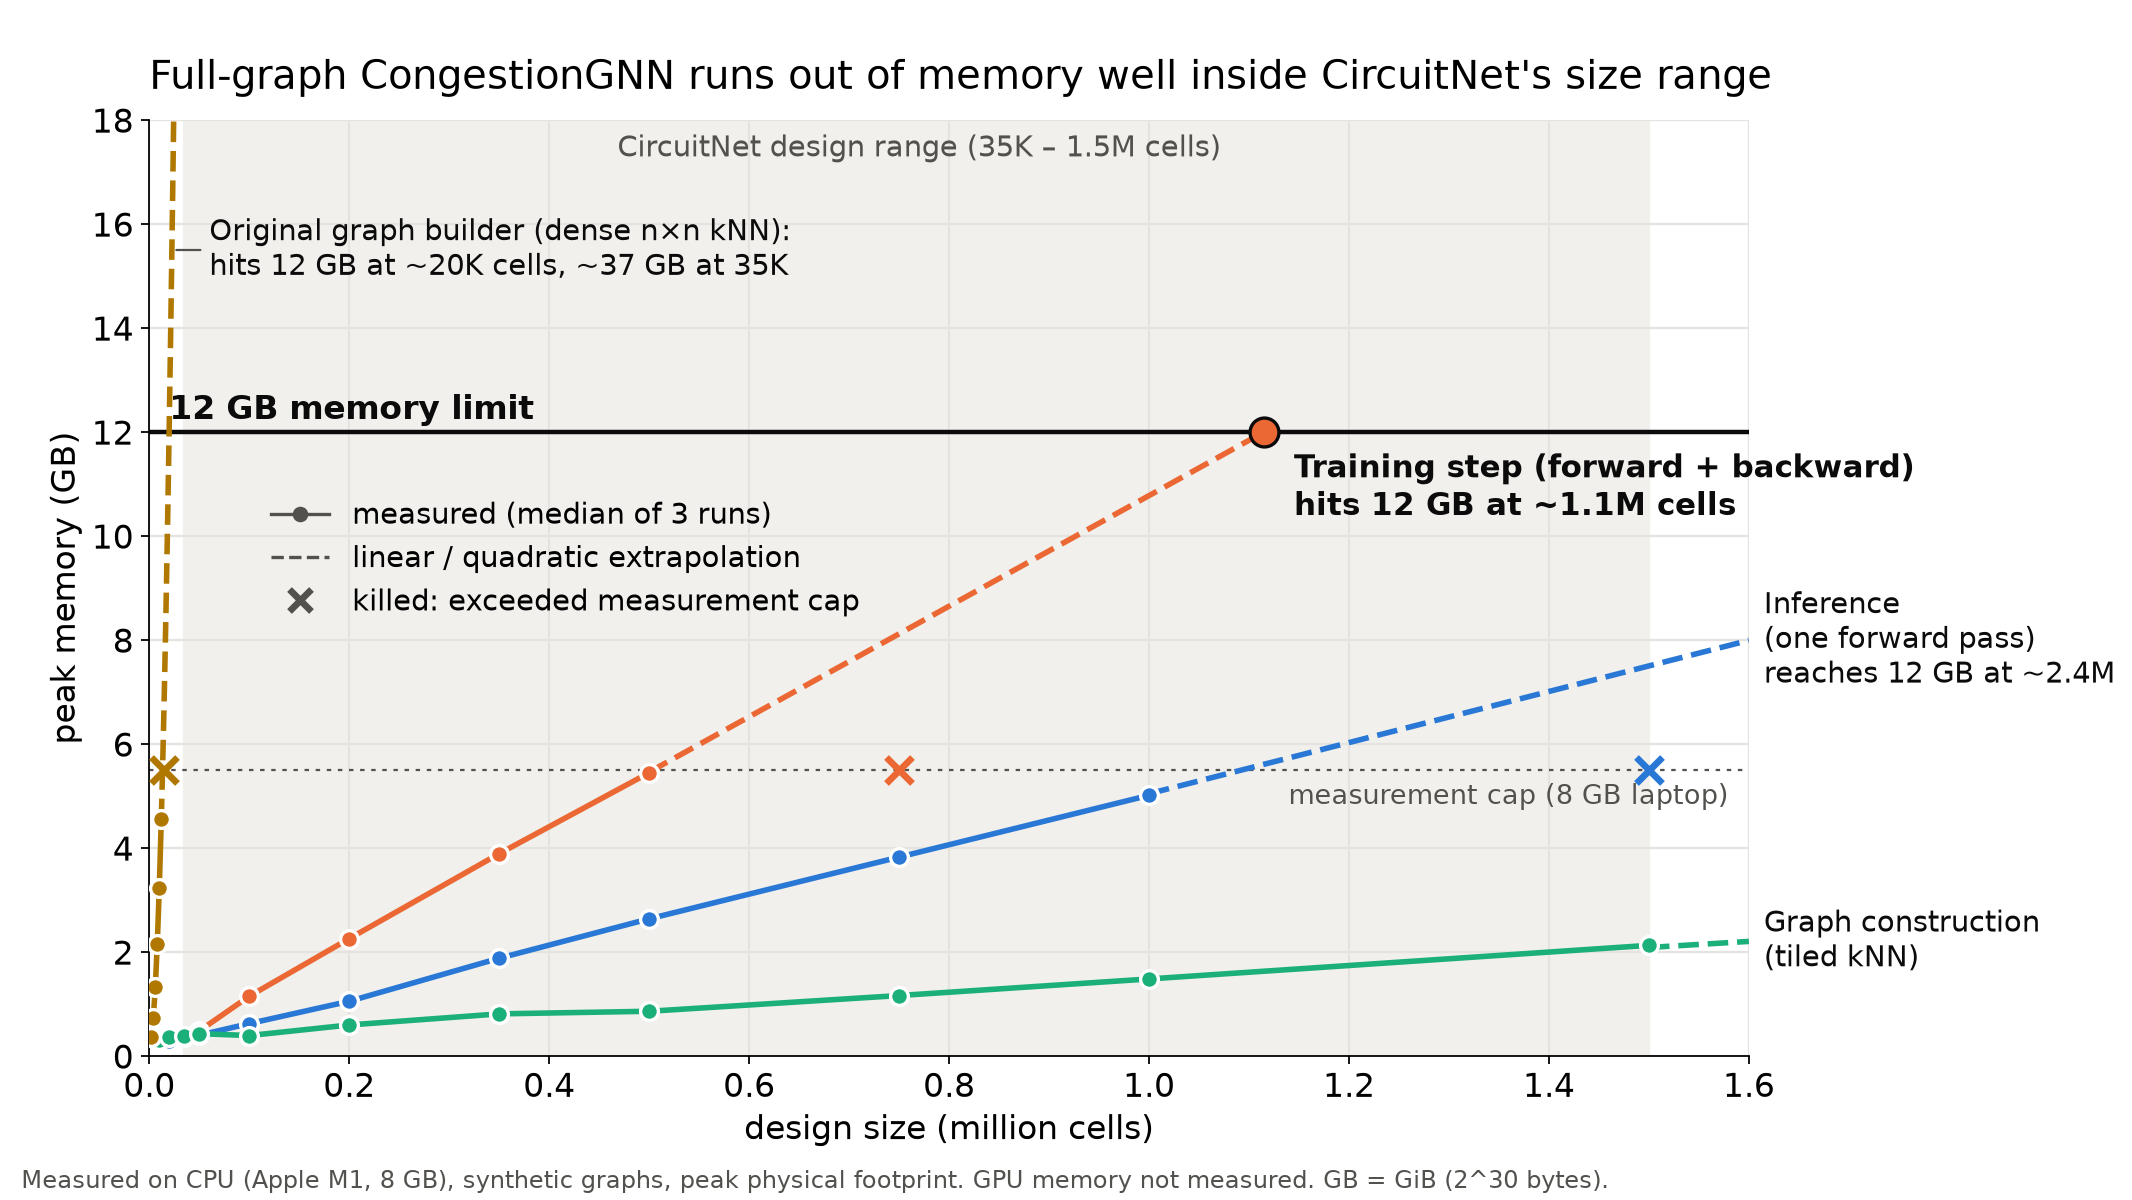
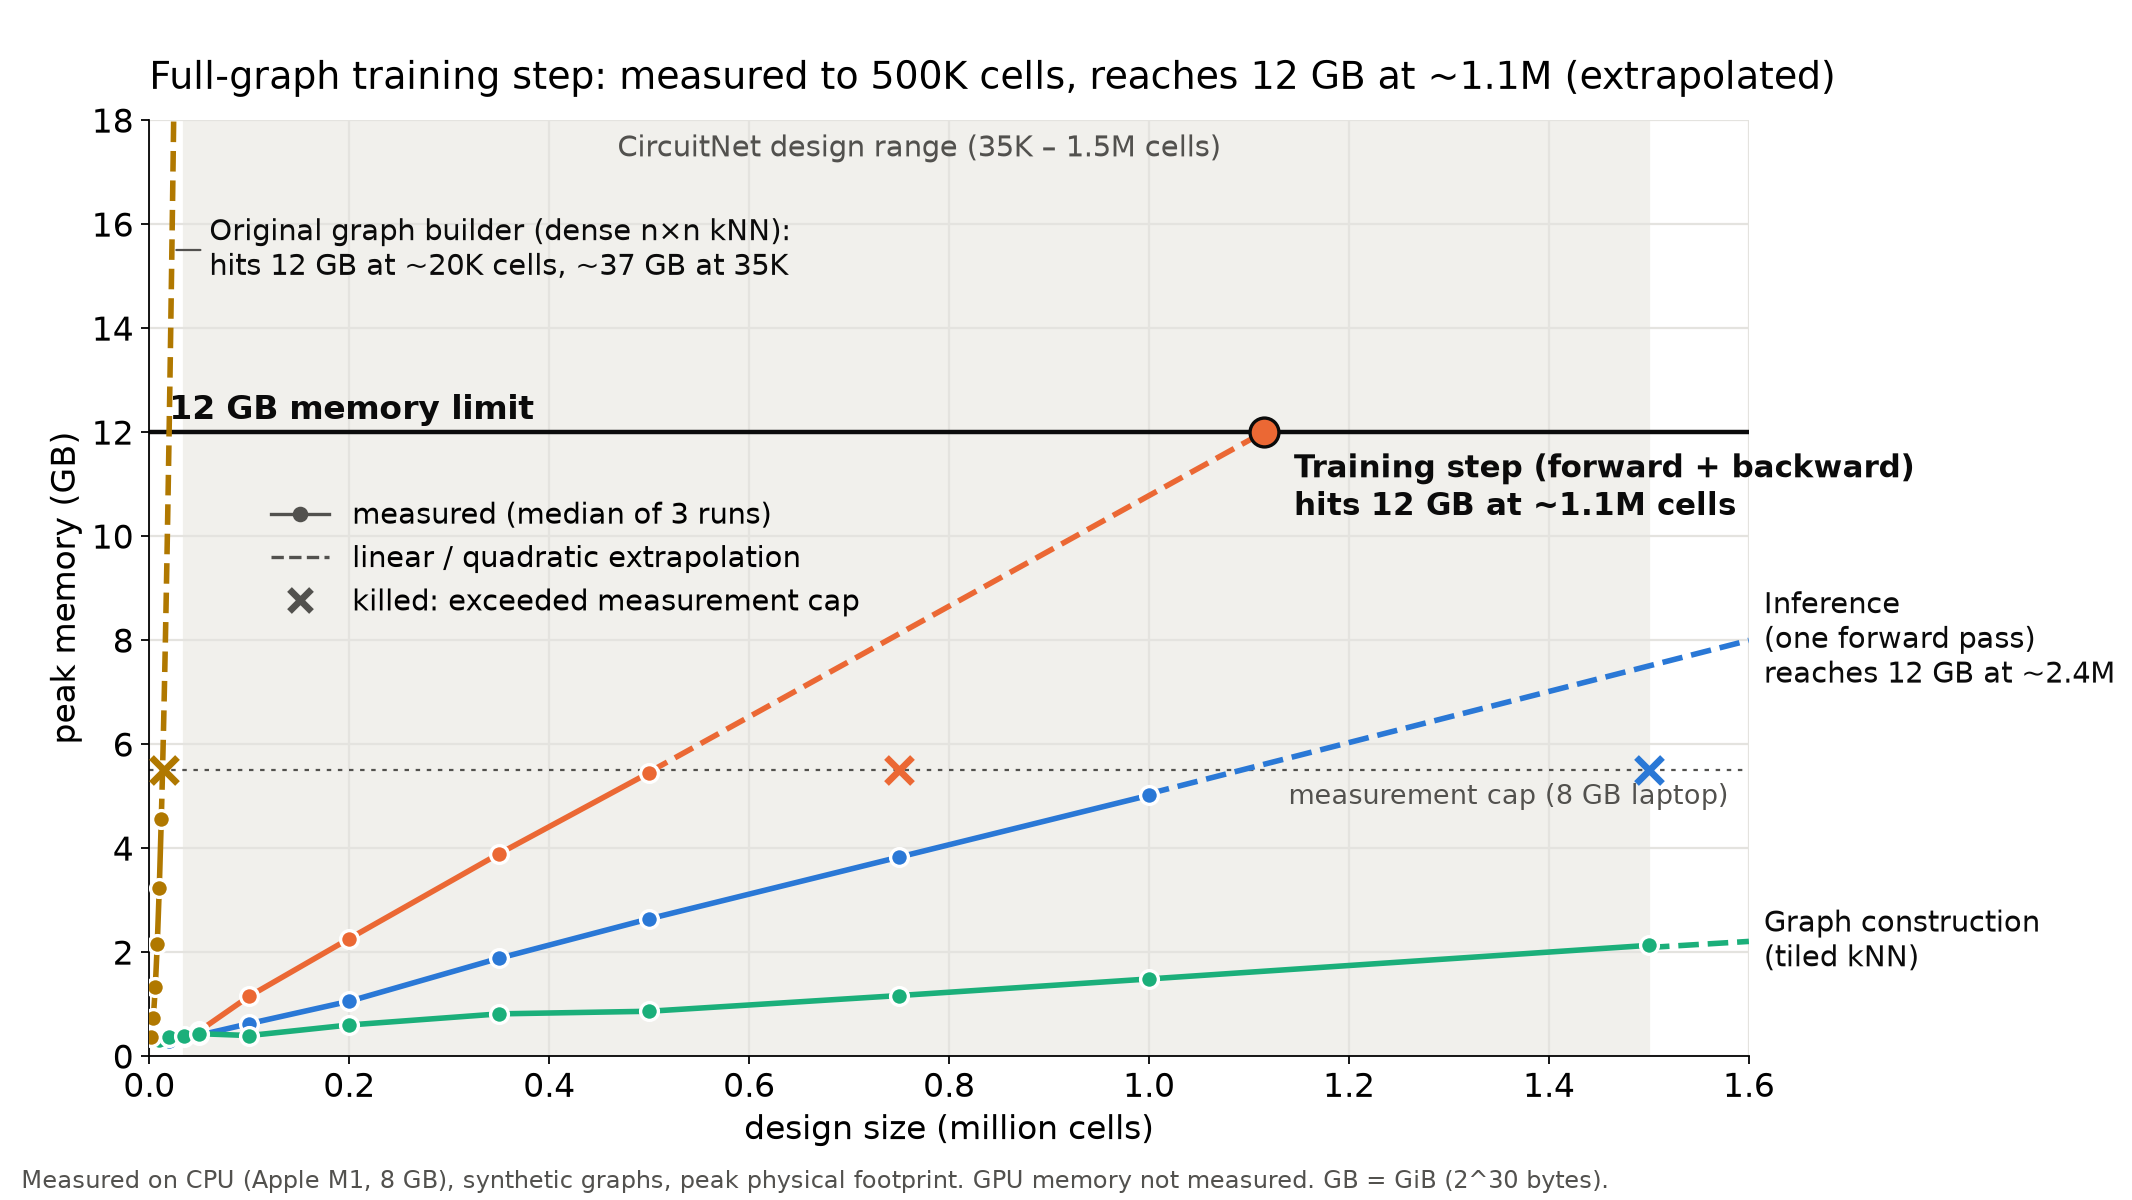
Add README; retitle Phase 10 memory chart to state the extrapolation
README covers what the project does, current status (pipeline validated
on gcd/nangate45, 9/9 gates, overfit Spearman 0.9702/0.9812, no
benchmark-scale training or generalisation result yet), results from the
phase notes, the scalability finding and partition before/after memory
numbers, repo structure, setup and reproduction, roadmap, attribution.

Phase 10 chart title now reads "measured to 500K cells, reaches 12 GB at
~1.1M (extrapolated)" instead of "runs out of memory well inside
CircuitNet's size range"; underlying data and report unchanged.

Changed region(s): [[0.0619, 0.0308, 0.8668, 0.0925]]

diff --git a/src/scalability_report.py b/src/scalability_report.py
@@ -241,8 +241,8 @@ def plot(by, fits, budget):
     ax.set_ylabel("peak memory (GB)")
     ax.grid(True, color=GRID, lw=1)
     ax.set_axisbelow(True)
-    ax.set_title("Full-graph CongestionGNN runs out of memory well inside CircuitNet's size range",
-                 loc="left", fontsize=18, pad=14)
+    ax.set_title("Full-graph training step: measured to 500K cells, reaches 12 GB at ~1.1M (extrapolated)",
+                 loc="left", fontsize=17, pad=14)
     fig.text(0.01, 0.01, "Measured on CPU (Apple M1, 8 GB), synthetic graphs, peak physical footprint. "
              "GPU memory not measured. GB = GiB (2^30 bytes).", color=INK2, fontsize=11)
     fig.subplots_adjust(left=0.07, right=0.82, top=0.90, bottom=0.12)

diff --git a/README.md b/README.md
@@ -1,0 +1,267 @@
+# Congestion prediction with a heterogeneous GNN
+
+When a chip is laid out, every logic cell is first *placed*, and then the wires
+connecting the cells are *routed* through a limited number of metal tracks.
+**Routing congestion** is where the wiring demand in a region exceeds the tracks
+available there. It is normally confirmed only after an expensive routing run.
+This project predicts it *before* routing, from a placed but unrouted design,
+using a heterogeneous graph neural network over three kinds of node: cells,
+nets (the wires that connect cells), and spatial grid regions (GCells).
+
+## Current status
+
+- **Pipeline validated end to end on one small design.** The design is `gcd` in
+  the open `nangate45` technology, about 606 cells after placement. All nine
+  validation gates (Phases 0-8) passed: ground-truth extraction, inducing
+  congestion, graph construction, grid alignment, a 45-sample mini-dataset,
+  a single-sample overfit test, and a viewer.
+- **The model reached Spearman 0.9702 (horizontal) / 0.9812 (vertical) on a
+  single-sample overfit test.** That test checks whether the model can
+  *memorise* one sample. It is a pipeline sanity check, not a measure of
+  predictive accuracy.
+- **The model has NOT been trained or evaluated on benchmark-scale data, and
+  no generalisation result exists yet.**
+- **Phases 9-13 (below) are scale engineering and infrastructure.** They run
+  on *synthetic* graphs whose labels are an analytical proxy, not router
+  output. None of their accuracy-like numbers say anything about how well
+  the model predicts real congestion.
+- The graphs and checkpoint from Phases 4-8 were lost. Re-running the
+  overfit test or the viewer needs the ground truth regenerated with
+  OpenROAD first (see [Setup](#setup-and-reproduction)).
+
+Every number in this README is taken from the phase notes in
+[`notes/`](notes/), which record how each was measured and what remains
+unresolved.
+
+## Results so far
+
+### Pipeline validation on `gcd` / nangate45 (Phases 0-8)
+
+| Phase | What was checked | Measured result |
+|---|---|---|
+| 1 | Baseline OpenROAD flow (via ORFS Docker) | 606 placed cells, 631 signal nets, 62.4% utilization after detailed placement |
+| 2 | Per-GCell congestion extracted from OpenDB vs OpenROAD's own GUI heatmap | 144/144 GCells match, max absolute difference 0.000005 |
+| 3 | Inducing real congestion (layer cap + routing blockage) | max combined congestion 1.6364 (baseline 0.7778); 186/289 GCells (64.4%) above 0.9 |
+| 4 | Graph construction (6 relation types) | 0 isolated GCell nodes, 0 nets without pins |
+| 5 | Cell-to-GCell assignment vs OpenROAD's `getXIdx`/`getYIdx` | 0 mismatches over 614 instances + 6 boundary cases; 606/606 cells inside their GCell |
+| 6 | Mini-dataset: 3 blockage positions × 3 widths × 5 placement seeds | 45/45 samples built, 0 exact-duplicate congestion maps |
+| 7 | Single-sample overfit test | Spearman 0.9702 / 0.9812 (both > 0.95 gate) |
+| 8 | Streamlit viewer | re-prediction 26.8 ms |
+
+**Model and loss.** The model, `CongestionGNN`, has 155,010 parameters. It uses
+type-specific encoders, 3 layers of `HeteroConv` + `SAGEConv` over 6
+relations, and a head that predicts [horizontal, vertical] congestion ratio
+per GCell. It is trained with Huber loss plus a pairwise ranking loss.
+
+**Two dead ends in the Phase 6 sweep.** The first two sweep designs (varying
+layer-cap tier, then placement density) produced bit-identical congestion maps
+across samples. The duplicate-map gate caught this before training, and the
+sweep was redesigned around the one lever that measurably moved congestion
+(routing blockages).
+
+**Other samples.** On samples other than its training sample, the overfit
+checkpoint gave Spearman of roughly 0.47-0.50. That is expected for a model
+trained on one sample, and is not a generalisation result.
+
+### Scale engineering on synthetic graphs (Phases 9-13)
+
+No benchmark data (e.g. CircuitNet) and no OpenROAD were available for this
+stage, and development ran on an 8 GB Apple M1 laptop, CPU only.
+
+**Phase 9: synthetic generator.** `src/synthetic.py` generates CircuitNet-scale
+graphs by running synthetic placements through the *same* `build_graph`
+code as the real pipeline. It is parameterised by cell count; its structural
+parameters are assumptions, not calibrated against CircuitNet. The largest
+generated graph, 1.5M cells, has:
+- 3,717,981 nodes and 32,175,356 edges
+- a median net degree of 3, with the largest net at 150,085 pins
+- a peak memory of 2150 MiB during construction
+
+![Net degree distribution of the synthetic graphs on log-log axes](notes/figures/phase9_net_degree_loglog.png)
+
+*The net degree distribution of the synthetic graphs at four sizes (35K-1.5M
+cells), on log-log axes. Most nets have 2-4 pins, but a few "hub" nets (up to
+150,085 pins at 1.5M cells) make naive batching of neighbourhoods
+impractical.*
+
+**Phase 12: analytical baselines.** `src/baselines.py` provides two reference
+predictors with the same input and output as the GNN:
+- **RUDY**, implemented from Spindler & Johannes, DATE 2007. It matches a
+  brute-force evaluation of the paper's equations to within 1e-13.
+- **A density-only predictor**, which uses no connectivity at all.
+
+Both are implemented and tested, but **not evaluated against real ground
+truth**. Their scores against the synthetic labels are not meaningful, and
+RUDY's are circular, since the synthetic labels are themselves RUDY-like.
+
+**Phase 13: training infrastructure.** Everything below was exercised end to
+end in a short CPU run on synthetic data:
+- TOML experiment configs
+- train/val/test split by *design*, so no netlist appears in two splits
+- checkpointing with resume
+- gradient accumulation
+- mixed precision that falls back to fp32 on CPU
+- early stopping on validation Spearman
+- a JSON-lines metrics log
+
+A run of 3 epochs plus a resume to 6 finished with **bit-identical** weights
+to an uninterrupted 6-epoch run. Getting there required fixing
+multithreading nondeterminism: with 4 CPU threads, identical runs drifted
+by up to 1.9e-4 in the weights after one epoch. Deterministic mode fixes
+this at a ~45% cost in epoch time.
+
+## Scalability finding
+
+Phase 10 measured where the current approach breaks, using the synthetic
+graphs. Peak memory is the process's physical footprint on CPU. Runs above
+5.5 GiB were killed to protect the 8 GB machine, so everything beyond that
+is **extrapolated from linear or quadratic fits, not measured**. GPU memory
+was not measured.
+
+![Peak memory versus design size, with the 12 GB line marked](notes/figures/phase10_memory_vs_design_size.png)
+
+*Peak memory versus design size (synthetic graphs) for full-graph training,
+inference and graph construction. Solid lines are measurements (median of 3
+runs); dashed lines are extrapolations. The original graph builder's
+O(n²) kNN (left edge) fails almost immediately. A full-graph training step
+reaches 12 GB at roughly 1.1M cells, an extrapolation from points measured
+up to 500K cells.*
+
+| Component | Measured | Largest that fits 12 GB |
+|---|---|---|
+| Original `build_graph` kNN (dense n×n) | 4.55 GiB at 12K cells; killed above 5.5 GiB at 15K | ~19,800 cells (extrapolated), below the smallest 35K-cell design |
+| Original pairwise ranking loss (O(n²) over GCells) | 3.29 GiB at 6K GCells; killed at 8K | ~11,800 GCells (extrapolated); the 35K-cell synthetic design has 15,376 |
+| Full-graph training step (forward + backward) | 5.45 GiB at 500K cells; killed at 750K | ~1.11M cells (extrapolated); 16.1 GiB predicted at 1.5M |
+| Full-graph inference | 5.01 GiB at 1M cells; killed at 1.5M | ~2.4M cells (extrapolated) |
+| Graph construction with the new tiled kNN | 2.13 GiB at 1.5M cells | not a bottleneck |
+
+The two O(n²) components were replaced:
+- The kNN became an exact tiled kNN, which matches the original's neighbour
+  distances exactly.
+- The ranking loss became a sampled-pairs version, with a relative difference
+  of 5.2e-4 from the full loss in a test.
+
+**Partition-based training (Phase 11).** `src/partition.py` makes training fit
+a memory budget. It uses no random neighbour sampling; instead it:
+1. Cuts the GCell grid into spatially contiguous rectangles with roughly
+   equal cell counts.
+2. Adds a 3-hop *halo* of surrounding nodes, one hop per layer of the
+   3-layer model.
+3. Caps high-fanout nets at 512 pins.
+4. Chooses the number of partitions from a memory estimate fitted to the
+   Phase 10 measurements.
+
+| Design (synthetic) | Before: full-graph training step | After: largest partition |
+|---|---|---|
+| 500K cells | 5.45 GiB measured | 1.656 GiB measured (4 partitions) |
+| 1.5M cells | killed above 5.5 GiB; 16.1 GiB extrapolated | 1.385 GiB measured (16 partitions, 2 GiB budget) |
+
+The halo was checked against a full-graph reference at 1.5M cells. That
+comparison used a randomly initialised model: no trained model exists at
+this scale.
+- **Halo, no degree cap:** all 656,100 GCell outputs are bit-identical to the
+  full-graph computation.
+- **Halo, 512-pin cap:** 64.2% of GCell outputs are bit-identical; the maximum
+  error is 3.9e-7 against an output standard deviation of 0.082.
+- **No halo:** none of the 9,684 boundary GCells match to within 1e-6.
+- **Overhead:** the halo adds 13.5% more nodes in total.
+
+How large the capping error is for a *trained* model is not yet measured.
+
+## Repo structure
+
+```
+src/
+  extract_congestion.py   ground truth: per-GCell demand/capacity from OpenROAD (runs under `openroad -python`)
+  extract_placement.py    placed cells / nets / pins from an OpenROAD .odb (runs under `openroad -python`)
+  build_graph.py          .npz -> PyG HeteroData (3 node types, 6 relations)
+  build_dataset.py        builds and caches graphs for every Phase 6 sweep sample
+  model.py                CongestionGNN (HeteroConv + SAGEConv)
+  train.py                Phase 7 overfit test; config-driven trainer (Phase 13)
+  metrics.py              Spearman, Kendall, congestion helpers
+  synthetic.py            CircuitNet-scale synthetic graph generator + tiled kNN (Phase 9)
+  memtrack.py             peak physical-memory measurement (macOS / Linux)
+  scalability.py          memory/time measurement harness (Phase 10); scalability_report.py makes the table + chart
+  partition.py            spatial partitioning with halos and degree capping (Phase 11)
+  baselines.py            RUDY and density-only baselines (Phase 12)
+  config.py, dataset.py   experiment configs; design-level splits and training units (Phase 13)
+notes/                    one note per phase: what was built, how it was verified, measured results,
+                          reproduction commands, open issues; figures/ and results/ hold the raw outputs
+flow/                     OpenROAD-flow-scripts hooks: routing-layer cap, die blockage, Phase 6 sweep driver
+app/viewer.py             Streamlit viewer: predicted vs ground-truth heatmaps, metrics, hotspot table
+tests/                    gate scripts and tests for each phase
+configs/                  TOML experiment configs
+```
+
+`data/raw/`, `data/processed/` and `runs/` are git-ignored and regenerable.
+
+## Setup and reproduction
+
+Python 3.11 with the pinned versions in [`requirements.txt`](requirements.txt).
+PyTorch is the CPU build.
+
+```bash
+uv python install 3.11
+uv venv --python 3.11 .venv
+source .venv/bin/activate
+uv pip install torch==2.9.1 --index-url https://download.pytorch.org/whl/cpu
+uv pip install torch_geometric==2.8.0.post1 numpy==2.4.6 matplotlib==3.11.1 streamlit==1.62.0
+```
+
+**Model development needs no OpenROAD.** Everything in Phases 9-13 runs on
+synthetic data, in this order:
+
+```bash
+python tests/test_synthetic.py        # generator + tiled kNN      (Phase 9)
+python tests/test_partition.py        # partitioning + halo checks (Phase 11)
+python tests/test_baselines.py        # RUDY + density baselines   (Phase 12)
+python tests/test_train.py            # trainer: split, resume, AMP, early stopping (Phase 13)
+
+python src/scalability.py prepare --cells 35000 100000 500000 1500000    # synthetic graphs
+python src/scalability.py run --mode fwd_bwd --cells 35000 100000 500000 --stop-on-fail
+python src/scalability.py report                                         # table + chart
+python src/partition.py plan --cells 1500000 --budget-gib 2
+python src/partition.py measure --cells 1500000
+python src/train.py --config configs/synthetic_smoke.toml                # short training run
+```
+
+The exact commands behind every reported number, including all measurement
+modes, are at the end of each phase note (`notes/phase9-*` to
+`notes/phase13-*`).
+
+**Regenerating ground truth needs OpenROAD**, via the OpenROAD-flow-scripts
+(ORFS) Docker image `openroad/orfs`. This is only needed to rebuild the real
+`gcd` dataset (Phases 1-6), and with it the Phase 7 overfit test and the
+Phase 8 viewer:
+1. Run the ORFS flow with the hooks in `flow/`, or the sweep driver
+   `flow/sweep.sh`.
+2. Extract with `openroad -python src/extract_congestion.py` and
+   `src/extract_placement.py`.
+3. Build graphs with `src/build_dataset.py`.
+4. Run the overfit test: `python src/train.py <graph.pt> --save-checkpoint ...`.
+5. Launch the viewer: `streamlit run app/viewer.py`.
+
+These steps were originally run under WSL. Their full commands, with the
+Docker mount patterns they need, are in `notes/phase1-*` to `notes/phase8-*`.
+
+## Roadmap
+
+- Scale up to CircuitNet 2.0: real benchmark designs and real
+  global-routing ground truth, replacing the synthetic stand-ins.
+- Baselines: evaluate the analytical baselines (RUDY, density-only) on real
+  labels, and add a CNN baseline.
+- A cross-technology-node transfer study.
+- A paper.
+
+## Attribution
+
+This is an academic project that builds on published work, notably
+[VeriHGN](https://arxiv.org/abs/2603.11075) (KDD 2026), a heterogeneous-graph
+approach to congestion prediction. Its intended contribution is scoped as:
+- transfer across technology nodes
+- memory efficiency on commodity hardware
+- ranking-first evaluation
+
+Cross-technology-node transfer has not started. The memory-efficiency work
+(Phases 10-11) and the ranking-based loss and early stopping (Phases 7, 13)
+exist so far only on the `gcd` pilot and on synthetic data.
